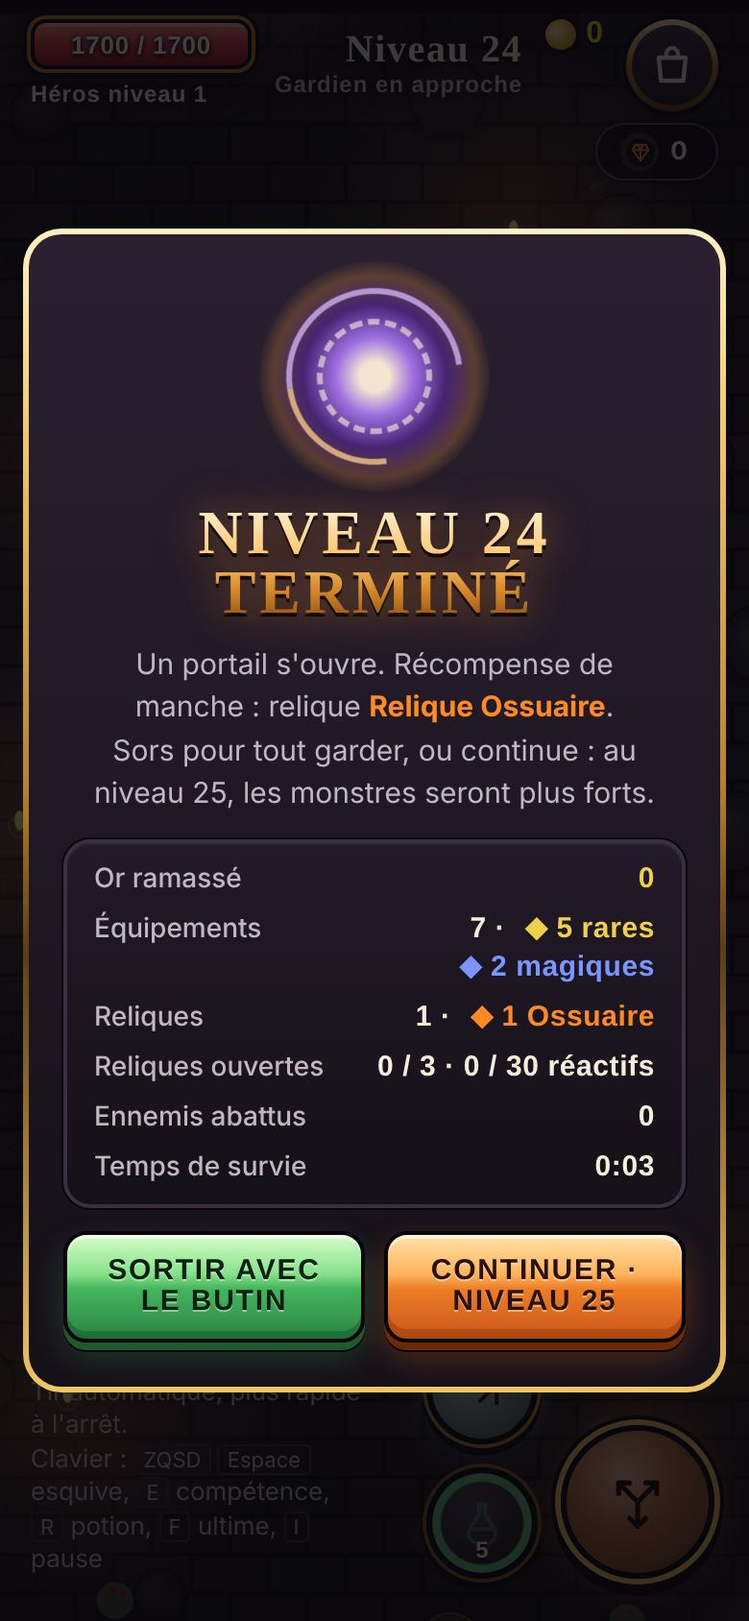
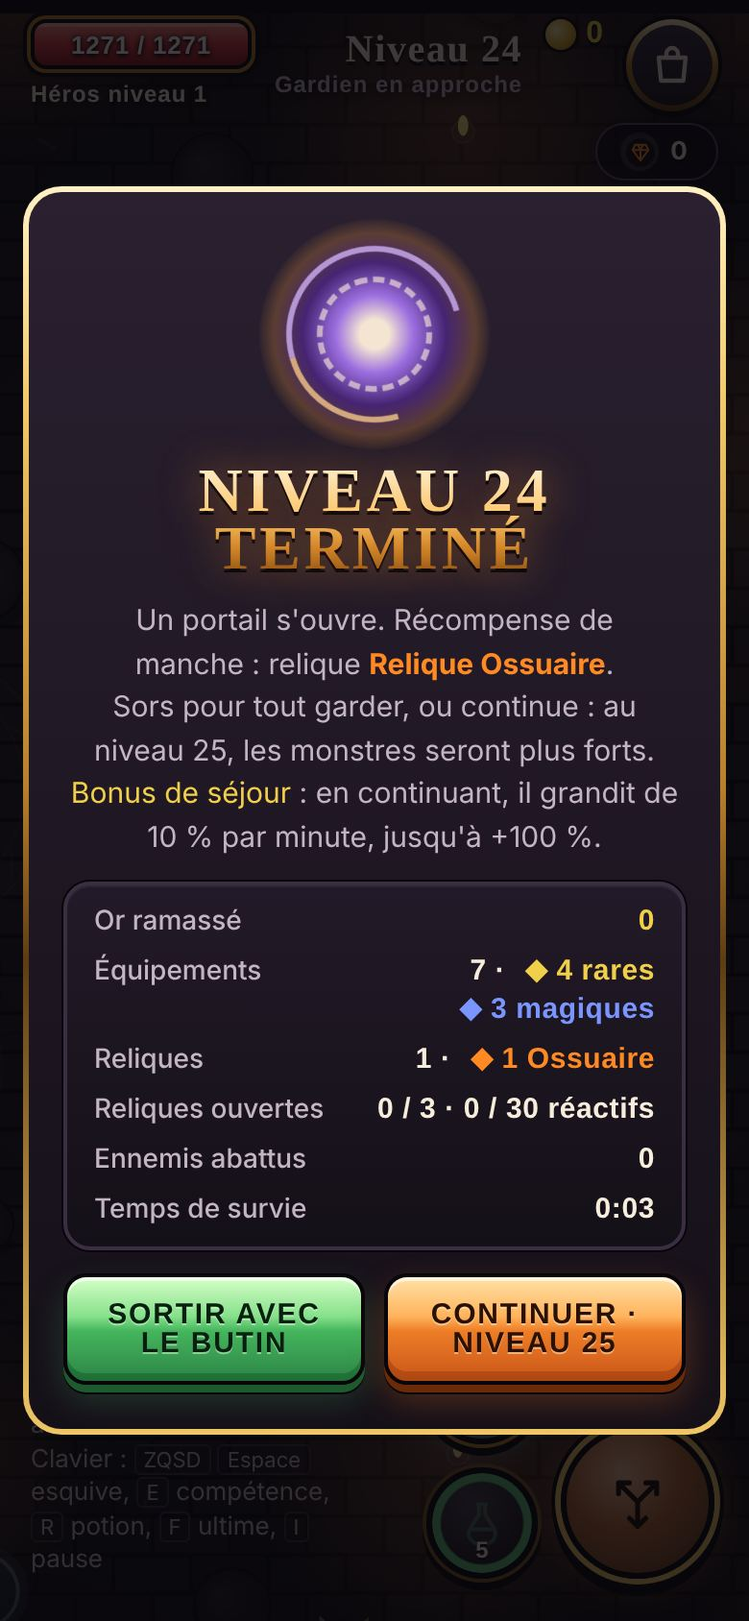
v131 : update guide

diff --git a/js/game.js b/js/game.js
@@ -201,7 +201,7 @@ function kill(e){
     for(const sd of[-1,1]){const a=rand(0,Math.PI*2)*0+Math.atan2(e.y-G.P.y,e.x-G.P.x)+sd*Math.PI/2+rand(-.4,.4);
       G.spawns.push({type:'slime',gen:e.gen+1,split:1,tgtPod:e.tgtPod,x:clamp(e.x+Math.cos(a)*e.r*.6,EDGE+30,MAP-EDGE-30),y:clamp(e.y+Math.sin(a)*e.r*.6,EDGE+30,MAP-EDGE-30),kx:Math.cos(a)*260,ky:Math.sin(a)*260,t:.12})}}
   if(e.twin&&!NET.guest)twinDied(e);
-  const boss=e.type==='boss'&&!e.noLoot,L=G.level,DL=dif().loot,dl=1+DL*.5,lm=lootMul(L)*(1+(S.lootPct||0)/100)*(1+DL*.15)*biome().loot*(teamHas('fort')?1.1:1)*(1+petLootPct()/100);
+  const boss=e.type==='boss'&&!e.noLoot,L=G.level,DL=dif().loot,dl=1+DL*.5,lm=lootMul(L)*(1+(S.lootPct||0)/100)*(1+DL*.15)*biome().loot*(teamHas('fort')?1.1:1)*(1+petLootPct()/100),st=1+stayBonus();
   G.ult=Math.min(ultNeed(),(G.ult||0)+(boss?10:1)*(teamHas('cri')?1.2:1));
   burst(e.x,e.y,boss?60:10,e.col,boss?320:150,4);burst(e.x,e.y,boss?20:4,'#e8853b',120);
   const push=(o,s=20)=>{const d=Object.assign({x:e.x+rand(-s,s),y:e.y+rand(-s,s),t:rand(0,6),age:0,mt:0},o);G.drops.push(d);if(o.kind==='item'){const w=wishMatch(o.item);if(w){d.wish=1;lootFlash(w,o.item)}}else if(o.kind==='part'&&o.part.full&&meta.wish&&meta.wish.leg&&!ownedW(o.part.w)){d.wish=1;lootFlash({leg:1},null)}};
@@ -210,21 +210,21 @@ function kill(e){
     push({kind:'item',item:genItem(itemLvl(),2)},40);push({kind:'item',item:genItem(itemLvl(),1)},40);push({kind:'relic',id:relicDrop()},40);push({kind:'potion'},40);
     for(let i=0;i<Math.floor((L-1)/10);i++)push({kind:'item',item:genItem(itemLvl(),1)},50);
     if(BAL.bossRelicEvery)for(let i=0;i<Math.floor((L-1)/BAL.bossRelicEvery);i++)push({kind:'relic',id:relicDrop()},50);
-    if(Math.random()<Math.min(1,.15*lm))push({kind:'part',part:rollPart()},40);
+    if(Math.random()<Math.min(1,.15*lm*st))push({kind:'part',part:rollPart()},40);
     if(Math.random()<hfChance())push({kind:'part',part:{hf:1}},40);
     for(let i=0;i<2;i++)push({kind:'mod',id:rollMod(true)},40);
     meta.essence+=25;saveMeta();G.shake=14;SND.play('bossdie');banner('Gardien vaincu · son butin est à toi','#e8853b',2);
     if(!G.en.some(o=>o.type==='boss'&&!o.dead))$('bossBar').hidden=true;
   }else{
     const t=e.type;
-    if(Math.random()<({ghoul:.006,bat:.002,archer:.008,poison:.008,pyro:.008,brute:.035,slime:.0035,givrin:.007})[t]*lm)push({kind:'item',item:genItem(itemLvl())});
-    if(Math.random()<({ghoul:.003,bat:.001,archer:.004,poison:.004,pyro:.004,brute:.025,slime:.0018,givrin:.0035})[t]*BAL.relicMob*(1+tormBoost().relic))push({kind:'relic',id:relicDrop()});
-    if(L>1&&Math.random()<({ghoul:.0015,bat:.0005,archer:.002,poison:.002,pyro:.002,brute:.012,slime:.0009,givrin:.0018})[t]*(lm-1))push({kind:'part',part:rollPart()});
+    if(Math.random()<({ghoul:.006,bat:.002,archer:.008,poison:.008,pyro:.008,brute:.035,slime:.0035,givrin:.007})[t]*lm*st)push({kind:'item',item:genItem(itemLvl())});
+    if(Math.random()<({ghoul:.003,bat:.001,archer:.004,poison:.004,pyro:.004,brute:.025,slime:.0018,givrin:.0035})[t]*BAL.relicMob*(1+tormBoost().relic)*st)push({kind:'relic',id:relicDrop()});
+    if(L>1&&Math.random()<({ghoul:.0015,bat:.0005,archer:.002,poison:.002,pyro:.002,brute:.012,slime:.0009,givrin:.0018})[t]*(lm-1)*st)push({kind:'part',part:rollPart()});
     if(e.corr)push({kind:'react'},6);
-    if(Math.random()<({ghoul:.006,bat:.002,archer:.008,poison:.008,pyro:.008,brute:.06,slime:.004,givrin:.007})[t])push({kind:'mod',id:rollMod(false)});
+    if(Math.random()<({ghoul:.006,bat:.002,archer:.008,poison:.008,pyro:.008,brute:.06,slime:.004,givrin:.007})[t]*st)push({kind:'mod',id:rollMod(false)});
     if(Math.random()<(t==='brute'?.05:.005))push({kind:'potion'});
   }
-  if(e.elite){push({kind:'item',item:genItem(itemLvl(),1)},30);if(Math.random()<.4)push({kind:'item',item:genItem(itemLvl(),1)},30);if(Math.random()<BAL.relicElite*(1+tormBoost().relic))push({kind:'relic',id:relicDrop()},30);
+  if(e.elite){push({kind:'item',item:genItem(itemLvl(),1)},30);if(Math.random()<.4*st)push({kind:'item',item:genItem(itemLvl(),1)},30);if(Math.random()<BAL.relicElite*(1+tormBoost().relic)*st)push({kind:'relic',id:relicDrop()},30);
     if(e.elite==='explosif'&&!NET.guest)G.lobs.push({x0:e.x,y0:e.y,tx:e.x,ty:e.y,t:0,T:.7,kind:'pyro',r:95,dps:2*diff().ds});
     burst(e.x,e.y,30,ELITE[e.elite].c,240,4);SND.play('bossdie');toast(`<b style="color:${ELITE[e.elite].c}">Élite ${ELITE[e.elite].n} vaincue</b>`)}
   const gv=({ghoul:1,bat:.6,archer:1.5,poison:1.5,pyro:1.5,brute:5,boss:50,slime:.8,givrin:1.2})[e.type]*goldMul(L)*dl*(e.elite?5:1),n=boss?8:e.elite?5:(Math.random()<Math.min(1,(e.type==='bat'?.35:.65)*(1+.05*(L-1)))?1:0);
@@ -276,7 +276,7 @@ const riftTry=(e,d)=>{if(S.abRift&&!G._rift&&Math.random()*100<S.abRift){G._rift
 // Coup qui peut être critique : les dégâts critiques s'appliquent (Pluie d'acier, météores).
 const critHit=(e,d)=>{const c=Math.random()*100<S.crit;dmgEnemy(e,c?d*S.critDmg/100:d,c)};
 // Récompense de capture (chaque joueur reçoit la sienne).
-function capReward(){const r=relicDrop(true);G.loot.relics.push(r);G.fresh++;G.gold+=60*G.level;
+function capReward(){objDone();const r=relicDrop(true);G.loot.relics.push(r);G.fresh++;G.gold+=60*G.level;
   toast(`<b style="color:var(--r2)">Cible capturée.</b> ${relicName(r)} et ${60*G.level} or. Rejoins l'extraction, ou traque la cible suivante.`)}
 // Ligne de tir dégagée entre un monstre et sa cible (5 points testés sur le trajet).
 const losClear=(e,dx,dy)=>{for(let k=1;k<6;k++)if(blocked(e.x+dx*k/6,e.y+dy*k/6,4))return false;return true};
@@ -386,6 +386,8 @@ function update(dt){
   G.t+=dt;G.tl+=dt;
   // Tourment : toutes les 2 minutes de séjour, le bonus des reliques grandit (annoncé tant qu'il augmente)
   {const s=sejN();if(s>(G.sejSeen|0)){G.sejSeen=s;const b=tormBoost();if(b.t&&G.relQ.length&&(s*(BAL.sejReact||0)<=(BAL.sejReactMax||0)+1e-9||s*(BAL.sejRelic||0)<=(BAL.sejRelicMax||0)+1e-9))toast(`<b style="color:#ff6a3a">Séjour prolongé.</b> ${reactNeed()} réactifs par relique, reliques +${Math.round(b.relic*100)} %.`,true)}}
+  // Séjour après l'objectif : chaque minute, le butin des monstres grandit (annoncé jusqu'au plafond)
+  {const m=stayMin();if(m>(G.staySeen|0)){G.staySeen=m;const b=stayBonus();if(b>0&&m*(BAL.stayLoot||0)<=(BAL.stayLootMax||0)+1e-9)toast(`<b style="color:#f0cf4a">Butin des monstres +${Math.round(b*100)} %</b> : tu restes après l'objectif${b>=(BAL.stayLootMax||0)-1e-9?' (c\'est le maximum)':''}.`,true)}}
   if(!NET.guest&&G.mode==='survie'&&G.tl>=LEVEL_T){G.tl=LEVEL_T;roundDone();return}
   if(G.pod)G.pod.flash=Math.max(0,G.pod.flash-dt*6);
   const P=G.P;

diff --git a/css/aaa.css b/css/aaa.css
@@ -235,11 +235,11 @@ body:has(#over:not([hidden])) .tabbar,body:has(#settings:not([hidden])) .tabbar{
 .home__sb.is-empty .home__gem{box-shadow:none;opacity:.6}
 .home__badge{top:-4px;right:2px}
 .home__stage{position:relative;flex:1 1 auto;min-height:0;display:flex;flex-direction:column;align-items:center;justify-content:center}
-.home__stage::before{content:"";position:absolute;left:50%;top:50%;width:min(300px,70vw);aspect-ratio:1;transform:translate(-50%,-56%);border-radius:50%;
+.home__stage::before{content:"";position:absolute;left:50%;top:50%;width:calc(var(--hs,240px)*1.25);aspect-ratio:1;transform:translate(-50%,-56%);border-radius:50%;
   background:radial-gradient(circle,color-mix(in srgb,var(--hero-c,#f39a3e) 34%,transparent),rgba(0,0,0,0) 68%);pointer-events:none}
-.home__stage::after{content:"";position:absolute;left:50%;top:50%;width:min(220px,56vw);height:62px;transform:translate(-50%,46px);border-radius:50%;pointer-events:none;
+.home__stage::after{content:"";position:absolute;left:50%;top:50%;width:calc(var(--hs,240px)*.92);height:calc(var(--hs,240px)*.26);transform:translate(-50%,calc(var(--hs,240px)*.19));border-radius:50%;pointer-events:none;
   border:3px solid rgba(255,190,110,.55);box-shadow:0 0 22px rgba(243,154,62,.5),inset 0 0 18px rgba(243,154,62,.35);background:radial-gradient(ellipse,rgba(0,0,0,.55),rgba(40,14,6,.2) 70%)}
-#heroCv{position:relative;z-index:1;width:min(240px,58vw);height:auto;aspect-ratio:1;max-height:100%;touch-action:pan-y;filter:drop-shadow(0 0 16px rgba(255,150,70,.35))}
+#heroCv{position:relative;z-index:1;width:var(--hs,min(240px,58vw));height:auto;aspect-ratio:1;max-height:100%;touch-action:pan-y;filter:drop-shadow(0 0 16px rgba(255,150,70,.35))}
 .home__nrow{display:flex;align-items:center;gap:14px}
 .home__arrow{flex:none;width:40px;height:40px;padding:0;border-radius:50%;display:grid;place-items:center;cursor:pointer;color:var(--ink);
   border:3px solid transparent;background:linear-gradient(180deg,#3a2f42,#1c1520) padding-box,linear-gradient(180deg,var(--gold1),var(--gold3) 50%,var(--gold4)) border-box;box-shadow:0 0 0 2px var(--outline),0 3px 0 var(--outline)}
@@ -267,7 +267,7 @@ body:has(#over:not([hidden])) .tabbar,body:has(#settings:not([hidden])) .tabbar{
 .home__tags{display:flex;gap:6px;flex-wrap:wrap}
 .home__tag{padding:4px 8px;border-radius:8px;background:#0b080d;border:1px solid #3a2f42;font:800 11.5px/1 var(--font-num);letter-spacing:.03em;color:var(--c,var(--muted))}
 .home__go{min-height:72px;margin:0 0 6px}
-#bestTxt{margin:0;text-align:center;font-size:12px}
+#bestTxt{margin:0;font-size:12px}
 #bestTxt:empty{display:none}
 @media (max-height:700px){.home__mission{min-height:92px}.home__mico{height:68px}.home__go{min-height:60px}.home__side{top:calc(env(safe-area-inset-top,0px) + 136px)}}
 
@@ -478,3 +478,8 @@ body:has(#over:not([hidden])) .tabbar,body:has(#settings:not([hidden])) .tabbar{
 .hacts{display:flex;flex-wrap:wrap}
 .hacts>.cx-btn{flex:1 1 auto;letter-spacing:.03em;padding-left:10px;padding-right:10px;white-space:nowrap}
 #setsSec{scroll-margin-top:12px}
+/* v131 : bonus de séjour dans le résumé de la pause */
+.bagsum__stay{grid-column:1/-1;font:600 12px/1.3 var(--font-body);font-style:normal;text-align:center;color:#f0cf4a}
+/* v131 : sans la bannière Parcours, les boutons latéraux remontent ; la taille du héros (--hs) suit la hauteur libre de la scène (shell.js). */
+#tutBtn[hidden] ~ .home__side{top:calc(env(safe-area-inset-top,0px) + 92px)}
+@media (max-height:700px){#tutBtn[hidden] ~ .home__side{top:calc(env(safe-area-inset-top,0px) + 84px)}}

diff --git a/js/ui.js b/js/ui.js
@@ -46,7 +46,7 @@ $('closeBag').addEventListener('click',closeBag);$('closeBagX').addEventListener
 $('rendBtn').addEventListener('click',()=>{if(PX){dropPixi('choix du joueur');try{localStorage.setItem('crypte-nogl','1')}catch{}}else{try{localStorage.removeItem('crypte-nogl')}catch{}location.reload()}});
 function drawBag(){
   {const rq=G.relic?`${G.react|0} / ${reactNeed()}`:`${(G.opened||[]).length} / ${G.relQ.length}`;
-    $('bagSum').innerHTML=`<span><b>${G.level}</b><small>niveau</small></span><span><b class="g">${G.gold}</b><small>or</small></span><span><b>${G.kills|0}</b><small>monstres</small></span><span><b class="r">${G.relQ.length?rq:'—'}</b><small>${G.relic?'réactifs':'reliques'}</small></span>`}
+    $('bagSum').innerHTML=`<span><b>${G.level}</b><small>niveau</small></span><span><b class="g">${G.gold}</b><small>or</small></span><span><b>${G.kills|0}</b><small>monstres</small></span><span><b class="r">${G.relQ.length?rq:'—'}</b><small>${G.relic?'réactifs':'reliques'}</small></span>`+(()=>{const b=Math.round(stayBonus()*100);return b?`<em class="bagsum__stay">Bonus de séjour · butin des monstres +${b} %</em>`:''})()}
   $('slots').innerHTML=slotsHtml(G.eq,false);
   $('statgrid').innerHTML=statRows(S);
   $('bagKey').innerHTML=typeof keyStats==='function'?keyStats(S):'';
@@ -269,6 +269,7 @@ function lootSummary(end){
     ${G.relQ.length&&!end?`<div><span>Reliques ouvertes</span><b>${G.opened.length} / ${G.relQ.length}${G.relic?` · ${G.react} / ${reactNeed()} réactifs`:''}</b></div>`:''}${(G.shared||[]).length&&!end?`<div><span>Partagées par les partenaires</span><b>${G.shared.length}</b></div>`:''}<div><span>Ennemis abattus</span><b>${G.kills}</b></div><div><span>${end?'Durée de la mission':'Temps de survie'}</span><b>${fmt(G.t)}</b></div>`;
 }
 function roundDone(){
+  objDone();
   if(NET.on){G.hold=true;if(NET.host)netSend({t:'round'})}
   paused=true;resetJoy();$('bag').hidden=true;$('lvlup').hidden=true;
   const nl=G.level+1,unlock=false;
@@ -277,6 +278,7 @@ function roundDone(){
   if(G.mode==='defense'){const it=genItem(itemLvl(),1);G.loot.items.push(it);extra=` et <span style="color:${RAR[it.r].c}">${it.name}</span>`}
   $('exTitle').textContent=G.mode==='defense'?`Vague ${G.wave} repoussée`:`Niveau ${G.level} terminé`;
   $('exLead').innerHTML=(G.mode==='defense'?'Le cryopode tient. ':'Un portail s\'ouvre. ')+`Récompense de manche : relique <b style="color:${RTIER[RELICS[r].t].c}">${relicName(r)}</b>${extra}. Sors pour tout garder, ou continue : au niveau ${G.level+1}, les monstres seront plus forts.`+(unlock?` Tu peux désormais commencer au niveau ${nl}.`:'')
+    +(()=>{const n=Math.round((BAL.stayLoot||0)*100),mx=Math.round((BAL.stayLootMax||0)*100),b=Math.round(stayBonus()*100);if(!n)return '';return `<br><span style="color:#f0cf4a">Bonus de séjour</span> : ${b?`butin des monstres +${b} %. `:''}${b>=mx?(b?'C\'est le maximum.':''):`${b?'E':'e'}n continuant, il grandit de ${n} % par minute, jusqu'à +${mx} %.`}`})()
     +(()=>{const b=tormBoost();if(!b.t||!G.relQ.length)return '';return `<br><span style="color:#ff6a3a">Bonus du Tourment</span> : ${reactNeed()} réactifs par relique au lieu de ${REACT_N}${b.relic?`, reliques +${Math.round(b.relic*100)} %`:''}. Il grandit toutes les 2 minutes passées dans la mission.`})();
   $('exSum').innerHTML=lootSummary();
   $('contBtn').textContent=`Continuer · niveau ${G.level+1}`;

diff --git a/sw.js b/sw.js
@@ -1,11 +1,13 @@
 // Crypte des Cendres — cache hors ligne. Change VERSION à chaque mise à jour du jeu.
-const VERSION = 'crypte-v130';
+const VERSION = 'crypte-v131';
 const CORE = ['./', './index.html', './manifest.webmanifest', './css/game.css', './css/aaa.css', './js/rythmes/rapide.js', './js/data.js', './js/game.js', './js/render.js', './js/ui.js', './js/camp.js', './js/inv.js', './js/fuse.js', './js/seal.js', './js/pet.js', './js/tut.js', './js/unlock.js', './js/settings.js', './js/audio.js', './js/relais.js', './js/net.js', './js/shell.js', './js/main.js', './js/update.js', './js/nav.js', './icons/icon-192.png', './icons/icon-512.png', './icons/maskable-512.png', './icons/apple-touch-icon.png'];
 const EXTERNAL = ['https://cdn.jsdelivr.net/npm/pixi.js@7.4.2/dist/pixi.min.js'];
 
 self.addEventListener('install', e => {
   e.waitUntil(caches.open(VERSION).then(async c => {
-    await c.addAll(CORE);
+    // cache: 'reload' : on prend les fichiers sur le réseau, jamais une ancienne copie du cache HTTP du navigateur
+    // (GitHub Pages les garde 10 minutes), sinon la nouvelle version pourrait s'installer avec d'anciens fichiers.
+    await c.addAll(CORE.map(u => new Request(u, { cache: 'reload' })));
     // La bibliothèque PixiJS et les polices sont mises en cache si le réseau les sert ; sinon le jeu passe au rendu standard.
     await Promise.all(EXTERNAL.map(u => fetch(u, { mode: 'no-cors' }).then(r => c.put(u, r)).catch(() => {})));
   }));
@@ -23,7 +25,8 @@ self.addEventListener('fetch', e => {
   // Page et scripts du jeu : réseau d'abord (pour recevoir les mises à jour), cache si hors ligne.
   if (req.mode === 'navigate' || (url.origin === location.origin && /\.(js|css|html)$/.test(url.pathname))) {
     // Chaque page garde sa propre copie (le guide ne remplace plus le jeu dans le cache).
-    e.respondWith(fetch(req).then(r => { if (r && r.ok) { const cp = r.clone(); caches.open(VERSION).then(c => c.put(req, cp)); } return r; })
+    // cache: 'no-cache' : le navigateur redemande toujours au serveur (réponse 304 légère si rien n'a changé).
+    e.respondWith(fetch(req, { cache: 'no-cache' }).then(r => { if (r && r.ok) { const cp = r.clone(); caches.open(VERSION).then(c => c.put(req, cp)); } return r; })
       .catch(() => caches.match(req, { ignoreSearch: true }).then(h => h || (req.mode === 'navigate' && !/\/aide\//.test(url.pathname) ? caches.match('./index.html') : h))));
     return;
   }

diff --git a/aide/index.html b/aide/index.html
@@ -352,6 +352,8 @@ details.more .tbl{margin:0 14px 14px}
     </ul>
     <h3>Sortir ou continuer</h3>
     <p>L'écran du portail montre deux boutons côte à côte. <b>Sortir avec le butin</b> (en vert) garde tout ce que tu as ramassé. <b>Continuer · niveau N</b> fait monter le niveau : monstres plus forts, meilleur butin, et le niveau atteint devient disponible comme niveau de départ.</p>
+    <h3 id="sejour">Rester après l'objectif</h3>
+    <p>Une fois l'objectif réalisé (la 1re manche en Survie et en Brèche, les 3 premières vagues en Défense, la 1re cible en Capture), chaque minute de plus dans la mission augmente le <b>butin des monstres et des élites de 10 %</b>, jusqu'à <b>+100 %</b> au bout de 10 minutes : objets, fragments d'armes, mods et reliques tombent plus souvent. Un message annonce chaque hausse ; la pause et l'écran du portail montrent le bonus en cours. Le temps passé sur l'écran du portail ne compte pas, et les lâchers garantis des Gardiens ne changent pas. En coopération, chacun a son bonus. Rester plus longtemps rapporte plus, mais si tu meurs, tu perds les objets et les reliques de la mission.</p>
     <p>L'écran de fin de mission propose <b>Aller au Camp</b> et <b>Recommencer</b>, côte à côte, puis <b>Changer de héros</b>.</p>
     <h3>Résumé de butin</h3>
     <p>L'écran du portail et l'écran de fin de mission réussie (Survie, Capture, Défense et Brèche) montrent le même résumé, en compteurs : or ramassé, équipements (total et nombre par rareté), reliques (total et nombre par type : Ossuaire, Ancestrale, Sanguine, Abyssale), armes ramassées par rareté, ennemis abattus et durée. À la fin, un second encadré fait le bilan des reliques ouvertes : essence, fragments, objets prêts à fabriquer par leur nom, œufs de familier, et reliques non ouvertes (qui restent équipées). Le détail relique par relique se déplie sous « Détail des n reliques ».</p>
@@ -781,7 +783,7 @@ details.more .tbl{margin:0 14px 14px}
 
 </main>
 
-<footer class="wrap">Crypte des Cendres · guide à jour de la version 130 du jeu. <a href="../index.html">Retour au jeu</a></footer>
+<footer class="wrap">Crypte des Cendres · guide à jour de la version 131 du jeu. <a href="../index.html">Retour au jeu</a></footer>
 
 <dialog id="zoom" aria-label="Capture agrandie"><button type="button" id="zoomX" aria-label="Fermer">×</button><img id="zoomImg" alt=""></dialog>
 

diff --git a/index.html b/index.html
@@ -91,7 +91,6 @@
   <div class="home__foot">
     <button class="home__mission" id="missionCard" aria-label="Choisir la mission"></button>
     <button class="cx-btn cx-btn--primary cx-btn--lg cx-btn--block home__go" id="startBtn">Combattre</button>
-    <p class="cx-hint" id="bestTxt"></p>
   </div>
 </div>
 
@@ -105,7 +104,7 @@
         <button class="cx-pick" data-m="capture" role="radio" aria-checked="false" style="--cc:#f0cf4a"><svg viewBox="0 0 24 24"><circle cx="12" cy="12" r="8"/><circle cx="12" cy="12" r="3"/><path d="M12 1v5M12 18v5M1 12h5M18 12h5"/></svg><b>Capture</b><span>Traque</span></button>
         <button class="cx-pick" data-m="breche" role="radio" aria-checked="false" style="--cc:#ff5fd2"><svg viewBox="0 0 24 24"><circle cx="8.5" cy="12" r="5"/><circle cx="15.5" cy="12" r="5"/><path d="M12 8.2v7.6"/></svg><b>Brèche</b><span>À plusieurs</span></button>
       </div>
-      <p class="cx-hint" id="modeDesc" style="margin:0"></p></section>
+      <p class="cx-hint" id="modeDesc" style="margin:0"></p><p class="cx-hint" id="bestTxt"></p></section>
     <section class="cx-section"><h3 class="cx-section__label">Lieu</h3><div class="msn__bios" id="bioCards" role="radiogroup" aria-label="Lieu"></div></section>
     <section class="cx-section"><h3 class="cx-section__label">Niveau de mission</h3>
       <div class="cx-rows"><div class="cx-row"><span class="cx-row__k">Niveau<small id="lvDesc">Plus haut : plus de butin, monstres plus forts</small></span><span class="cx-stepper"><button type="button" id="lvMinus" aria-label="Baisser le niveau">−</button><input id="lvIn" type="number" min="1" max="50" inputmode="numeric" aria-label="Niveau de mission"><button type="button" id="lvPlus" aria-label="Monter le niveau">+</button></span></div></div></section>

diff --git a/js/data.js b/js/data.js
@@ -165,6 +165,12 @@ function tormBoost(){const t=typeof tormT==='function'?tormT():0;if(!t)return {t
   const react=Math.min(BAL.reactCutMax||0,t*(BAL.tormReact||0)+Math.min(BAL.sejReactMax||0,s*(BAL.sejReact||0)));
   return {t,s,react,relic:Math.min(BAL.sejRelicMax||0,s*(BAL.sejRelic||0))}}
 const reactNeed=()=>Math.max(1,Math.round(REACT_N*(1-tormBoost().react)));
+// Séjour après l'objectif (v131) : une fois l'objectif réalisé (1re manche finie en Survie et Brèche, 1re série de vagues tenue en Défense,
+// 1re cible capturée), chaque minute de plus dans la mission augmente le butin des monstres et des élites : objets, fragments, mods, reliques
+// (BAL.stayLoot par minute, BAL.stayLootMax au plus). G.objT = temps de mission au moment de l'objectif. Les lâchers garantis des Gardiens ne changent pas.
+const stayMin=()=>typeof G!=='undefined'&&G&&G.objT!=null?Math.floor(Math.max(0,(G.t||0)-G.objT)/60):0;
+const stayBonus=()=>Math.min(BAL.stayLootMax||0,stayMin()*(BAL.stayLoot||0));
+function objDone(){if(typeof G!=='undefined'&&G&&G.objT==null)G.objT=G.t||0}
 // Chance d'œuf de familier par relique ouverte, selon sa rareté (× BAL.eggMul).
 const EGG_CH=[.08,.12,.15,.25];
 const REL_SRC=['Normal, Difficile et Cauchemar (et plus haut sous le niveau requis)',`Tourment I et plus, niveau ${BAL.relicLv[0]}+`,`Tourment VI et plus, niveau ${BAL.relicLv[1]}+`,`Tourment VI et plus, niveau ${BAL.relicLv[2]}+, plus rare`];

diff --git a/js/shell.js b/js/shell.js
@@ -116,3 +116,9 @@ function openTut(){const i=tutStep();if(i<0)return;
   $('pickBody').onclick=e=>{const b=e.target.closest('[data-cact="tutoff"]');if(b){meta.tutOff=true;saveMeta();closePick();refreshMenus();toast('Parcours masqué : « Réafficher le parcours » en bas de l\'onglet Héros.')}};
   $('pickSheet').hidden=false}
 $('tutBtn').onclick=openTut;
+
+// Taille du héros de l'accueil (v131) : il prend la hauteur libre de la scène, plus grand quand la bannière Parcours a disparu
+// (entre 160 et 340 px, 80 % de la largeur au plus ; 112 px restent pour le nom, les flèches et les points).
+(function(){const st=document.querySelector('.home__stage');if(!st)return;
+  const fit=()=>{const h=st.clientHeight,w=st.clientWidth;if(!h||!w)return;st.style.setProperty('--hs',Math.round(Math.max(160,Math.min(340,w*.8,h-112)))+'px')};
+  if(typeof ResizeObserver==='function')new ResizeObserver(fit).observe(st);addEventListener('resize',fit);fit()})();

diff --git a/js/rythmes/rapide.js b/js/rythmes/rapide.js
@@ -15,6 +15,8 @@ const RYTHME={
   reactCutMax:.7,      // réduction totale maximale des réactifs (il en faut toujours au moins 30 %)
   sejRelic:.1,         // Tourment : reliques sur les monstres et les élites +10 % par tranche de séjour
   sejRelicMax:.6,      // … jusqu'à +60 %
+  stayLoot:.1,         // séjour après l'objectif : butin des monstres (objets, fragments, mods, reliques) +10 % par minute
+  stayLootMax:1,       // … jusqu'à +100 %
   corrupt:.1,          // part des ennemis corrompus (porteurs de réactif) quand une relique est équipée
   tormIv:[40,30],      // Tourment : secondes entre deux vagues de Gardiens, au palier I puis au palier X
   tormCnt:[2,3],       // Tourment : Gardiens par vague, paliers I–V puis VI–X

diff --git a/js/rythmes/long.js b/js/rythmes/long.js
@@ -15,6 +15,8 @@ const RYTHME={
   reactCutMax:.6,      // réduction totale maximale des réactifs
   sejRelic:.08,        // Tourment : reliques sur les monstres et les élites en plus par tranche de séjour
   sejRelicMax:.48,     // … au plus
+  stayLoot:.1,         // séjour après l'objectif : butin des monstres (objets, fragments, mods, reliques) +10 % par minute
+  stayLootMax:1,       // … jusqu'à +100 %
   corrupt:.08,         // part des ennemis corrompus quand une relique est équipée
   tormIv:[50,40],      // Tourment : secondes entre deux vagues de Gardiens, au palier I puis au palier X
   tormCnt:[2,2],       // Tourment : Gardiens par vague, paliers I–V puis VI–X

diff --git a/README.md b/README.md
@@ -45,6 +45,8 @@ Modifie les fichiers, puis incrémente `VERSION` en haut de `sw.js` (ex. `crypte
 
 L'appli détecte toute seule le changement de `VERSION` (au lancement, au retour au premier plan et toutes les 30 min, voir `js/update.js`) : un bandeau « Nouvelle version du jeu · Mettre à jour » s'affiche hors mission (accueil, pause, Camp, fin de partie). Réglages › Application montre la version installée et un bouton Rechercher.
 
+GitHub Pages fait garder chaque fichier 10 minutes par le navigateur. Depuis la v131, `sw.js` contourne ce cache : à l'installation (`cache: 'reload'`) comme pour la page, les scripts et le CSS (`cache: 'no-cache'`, une réponse 304 légère si rien n'a changé). Une version publiée arrive donc dès que GitHub Pages l'a mise en ligne (1 à 2 minutes). La suite `17_pwa` le vérifie sur un petit serveur local.
+
 ## Rythme de progression
 Les réglages qui fixent la vitesse de progression sont dans des fichiers de rythme, `js/rythmes/` : `rapide.js` (rythme publié, par défaut) et `long.js` (fin de jeu visée vers 80 h). Chacun définit `RYTHME`, chaque valeur commentée : reliques (monstres, élites, Gardiens, part d'Abyssales), réactifs, Gardiens du Tourment, niveau requis pour chaque rareté de relique, coûts en or (fusion de rang, fabrication, Bonus de la Forge), rang maximum du butin des monstres, étoiles de mod, œufs, fragments de harnais.
 Le rythme chargé est celui de la balise `<script src="js/rythmes/….js">` d'`index.html`, avant `data.js` (penser aussi à la liste `CORE` de `sw.js`). C'est un réglage de développement : le joueur ne le choisit pas. Pour un nouveau rythme, copier un fichier et changer ses valeurs. Le simulateur le mesure avant publication : `node tools/progression/run.mjs --rythme long --cls guerrier` (nom ou chemin d'un fichier), `--bal '{"relicMob":0.15}'` pour essayer une valeur seule.
@@ -56,7 +58,7 @@ Le rythme chargé est celui de la balise `<script src="js/rythmes/….js">` d'`i
 Une suite unique vérifie le jeu dans un vrai navigateur (Chromium sans affichage) : démarrage, butin, reliques, fabrication et fusion, coffre, affixes, emplacements, missions, contrôles, sauvegarde, parcours, coopération.
 ```
 npm i playwright && npx playwright install chromium
-node tools/tests/run.mjs            # tout (100 tests, ≈ 4 min)
+node tools/tests/run.mjs            # tout (102 tests, ≈ 4 min)
 node tools/tests/run.mjs --quick    # sans la coopération
 node tools/tests/run.mjs fusion     # seulement les suites dont le fichier contient « fusion »
 ```
